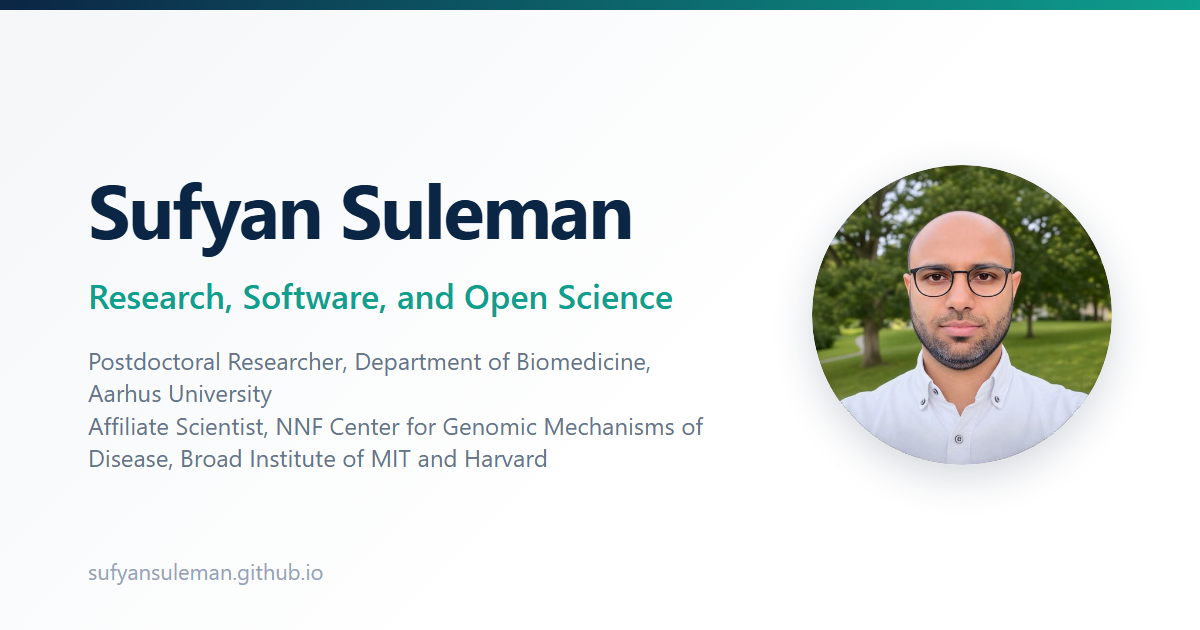
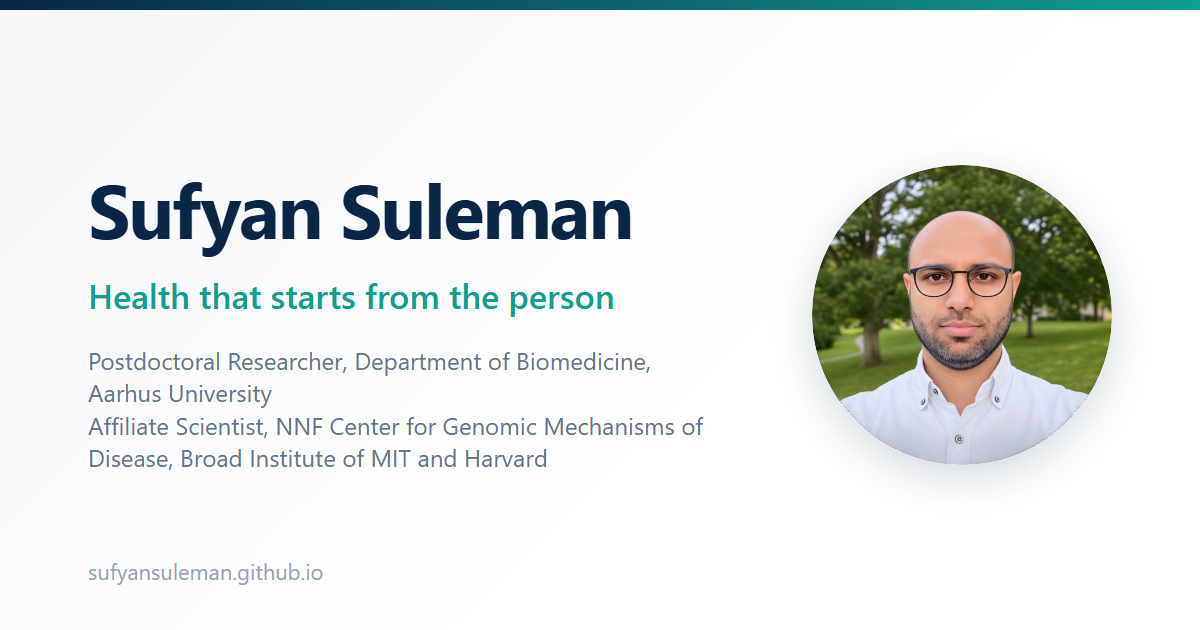
Home: first-person statement; About: link to full story; CV: tool and method list corrected

Changed region(s): [[0.0617, 0.4524, 0.555, 0.5127]]

diff --git a/src/lib/data.ts b/src/lib/data.ts
@@ -26,6 +26,9 @@ export interface Profile {
   affiliation_secondary?: string;
   location: string;
   tagline: string;
+  hero_lead: string;
+  hero_paragraphs: string[];
+  statement_paragraphs: string[];
   subheadline: string;
   roles: string[];
   interests: string[];
